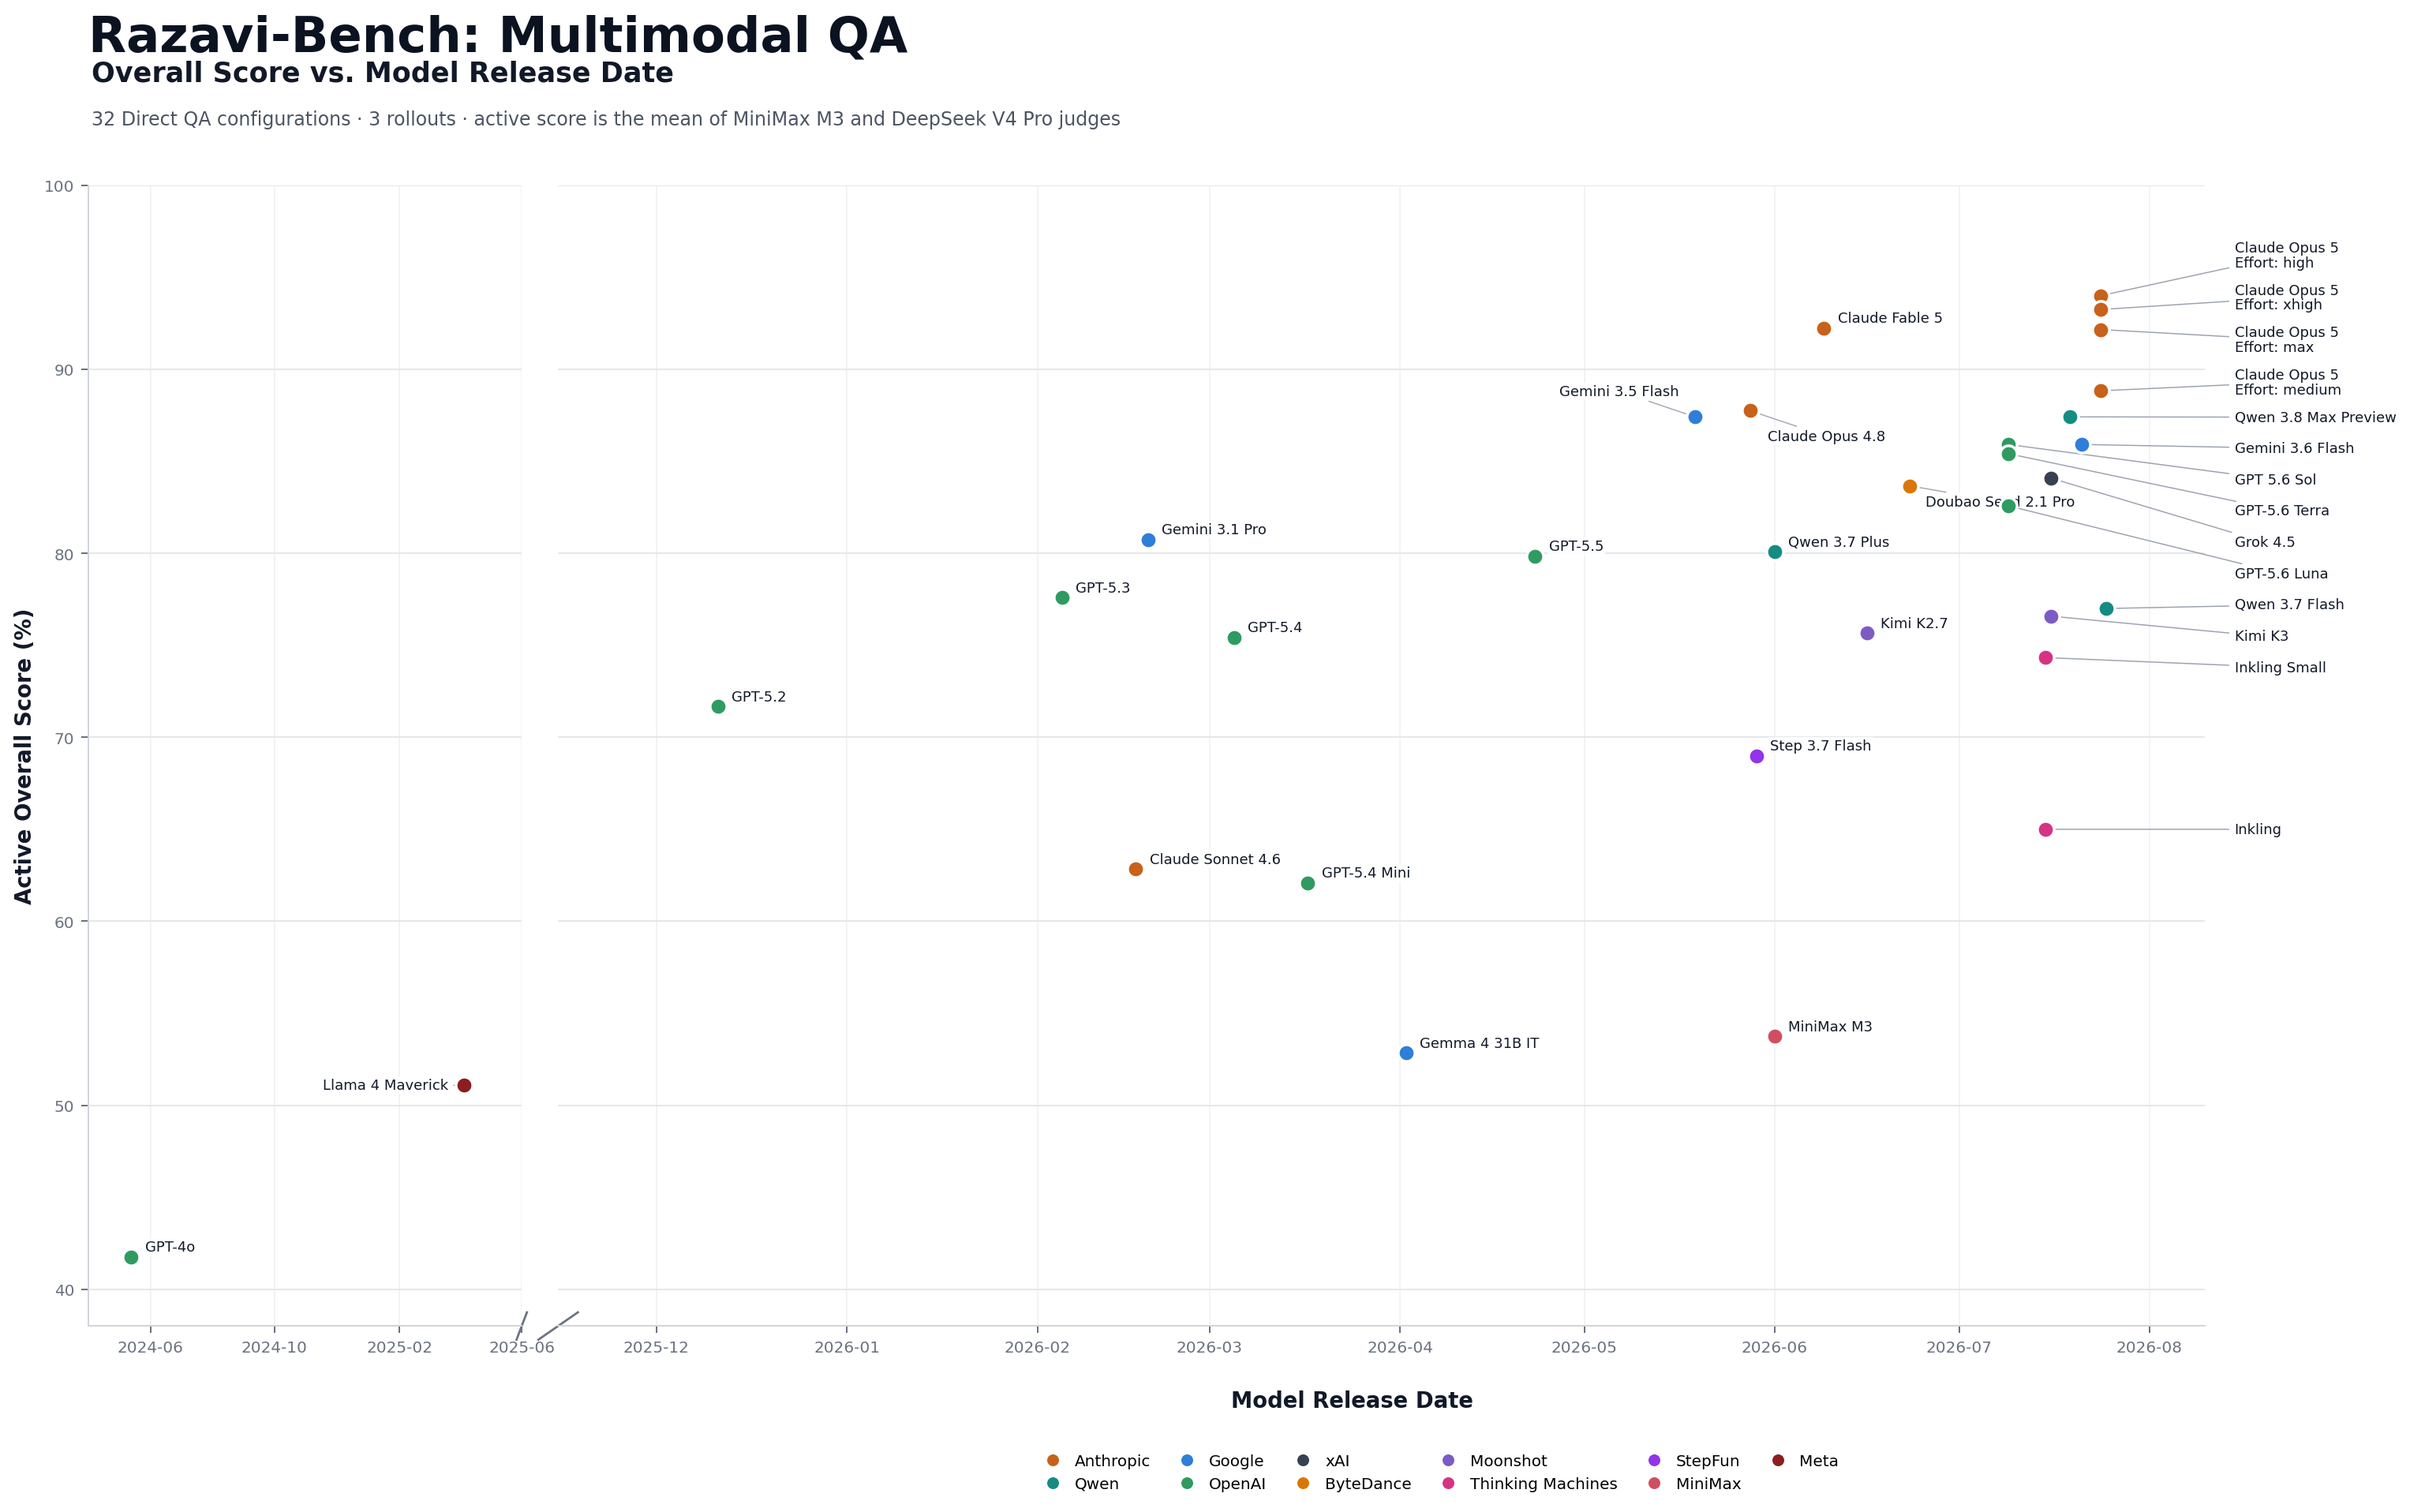
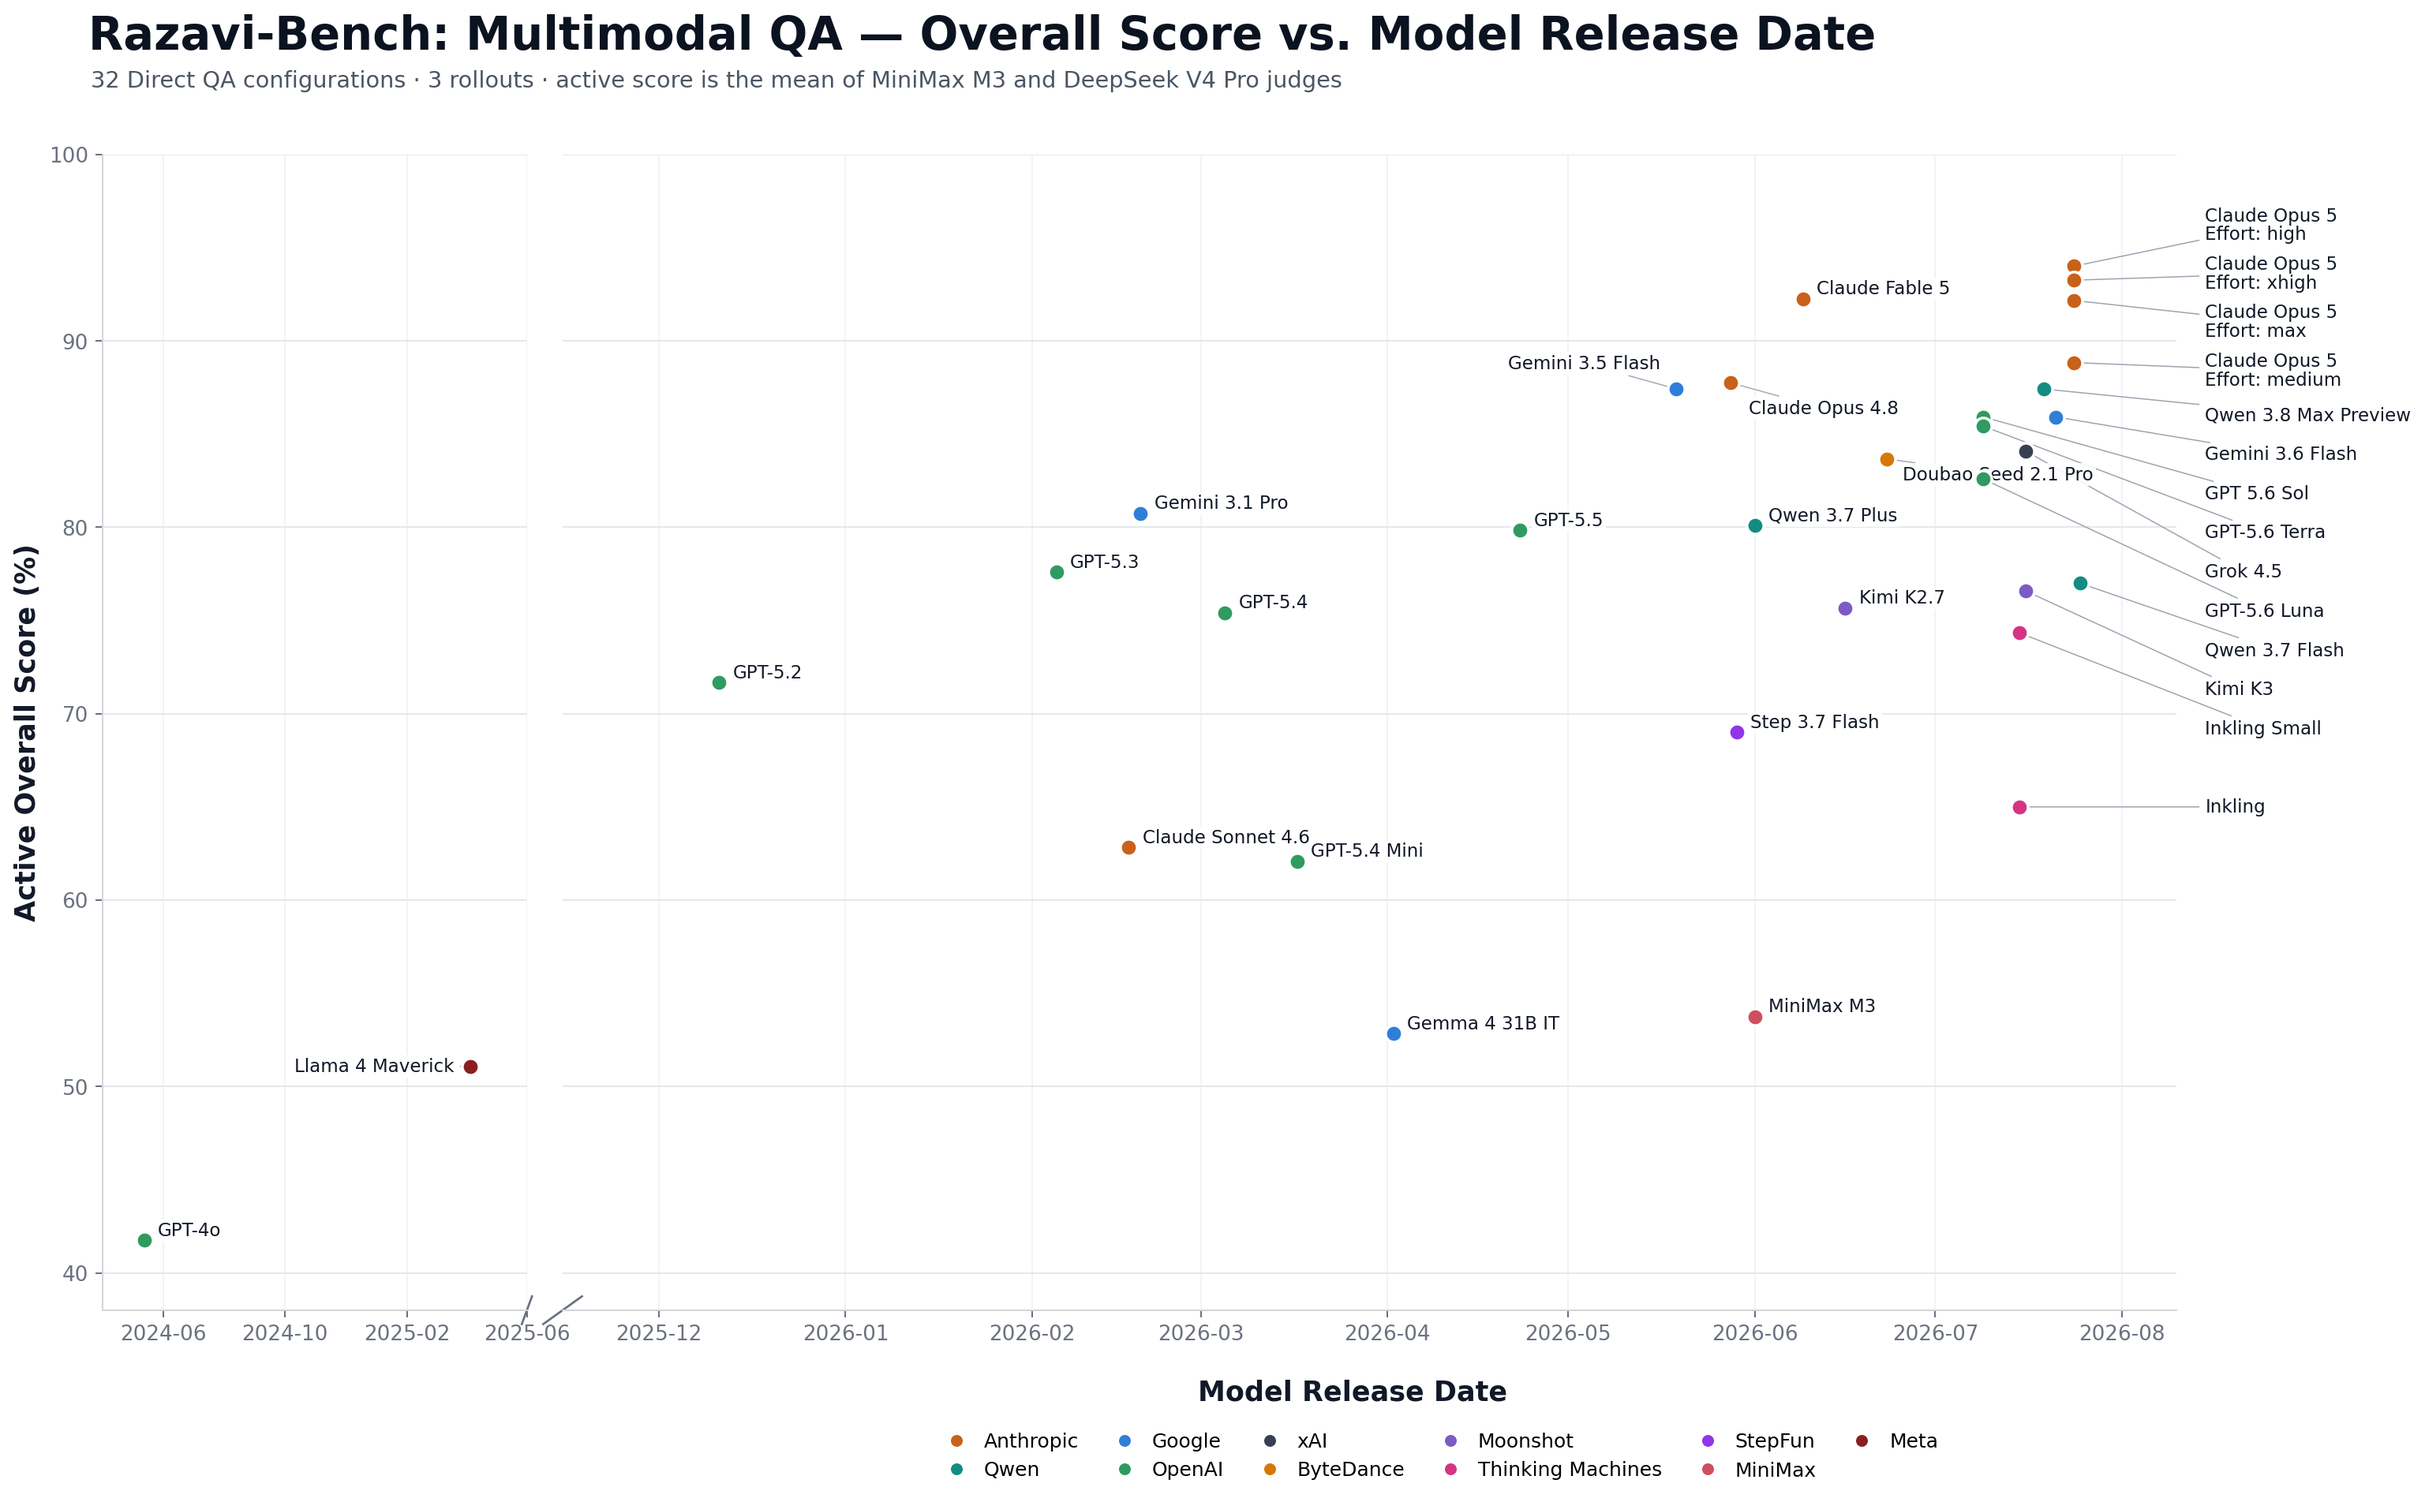
Improve release timeline readability

diff --git a/tools/plot_model_release_timeline.py b/tools/plot_model_release_timeline.py
@@ -42,18 +42,18 @@ LABEL_OFFSETS = {
 
 RECENT_LABEL_Y = {
     "claude_opus_5_high": 96.2,
-    "claude_opus_5_xhigh": 93.9,
-    "claude_opus_5": 91.6,
-    "claude_opus_5_medium": 89.3,
-    "qwen_38": 87.4,
-    "gemini_36_flash": 85.7,
-    "gpt_56": 84.0,
-    "gpt_56_terra": 82.3,
-    "grok_45": 80.6,
-    "gpt_56_luna": 78.9,
-    "qwen_37_flash": 77.2,
-    "kimi_k3": 75.5,
-    "inkling_small": 73.8,
+    "claude_opus_5_xhigh": 93.6,
+    "claude_opus_5": 91.0,
+    "claude_opus_5_medium": 88.4,
+    "qwen_38": 86.0,
+    "gemini_36_flash": 83.9,
+    "gpt_56": 81.8,
+    "gpt_56_terra": 79.7,
+    "grok_45": 77.6,
+    "gpt_56_luna": 75.5,
+    "qwen_37_flash": 73.4,
+    "kimi_k3": 71.3,
+    "inkling_small": 69.2,
     "inkling": 65.0,
 }
 
@@ -118,7 +118,7 @@ def annotate(ax: plt.Axes, row: dict[str, object]) -> None:
             textcoords=ax.get_yaxis_transform(),
             ha="left",
             va="center",
-            fontsize=7.2,
+            fontsize=9.2,
             color="#111827",
             linespacing=1.05,
             arrowprops={"arrowstyle": "-", "color": "#9CA3AF", "lw": 0.6},
@@ -137,7 +137,7 @@ def annotate(ax: plt.Axes, row: dict[str, object]) -> None:
         textcoords="offset points",
         ha=horizontal_alignment,
         va="center",
-        fontsize=7.2,
+        fontsize=9.2,
         color="#111827",
         linespacing=1.05,
         arrowprops={"arrowstyle": "-", "color": "#9CA3AF", "lw": 0.55},
@@ -153,7 +153,7 @@ def style_axis(ax: plt.Axes) -> None:
     ax.set_yticks(range(40, 101, 10))
     ax.grid(axis="y", color="#E5E7EB", linewidth=0.8)
     ax.grid(axis="x", color="#F0F2F5", linewidth=0.7)
-    ax.tick_params(colors="#6B7280", labelsize=8)
+    ax.tick_params(colors="#6B7280", labelsize=10.5)
     ax.spines["top"].set_visible(False)
     ax.spines["right"].set_visible(False)
     ax.spines["left"].set_color("#D1D5DB")
@@ -199,30 +199,22 @@ def plot(rows: list[dict[str, object]], output: Path) -> None:
         )
         annotate(axis, row)
 
-    old_ax.set_ylabel("Active Overall Score (%)", fontsize=11, fontweight="bold", color="#111827")
-    figure.supxlabel("Model Release Date", y=0.075, fontsize=11, fontweight="bold", color="#111827")
+    old_ax.set_ylabel("Active Overall Score (%)", fontsize=14, fontweight="bold", color="#111827")
+    figure.supxlabel("Model Release Date", y=0.074, fontsize=14, fontweight="bold", color="#111827")
     figure.suptitle(
-        "Razavi-Bench: Multimodal QA",
+        "Razavi-Bench: Multimodal QA — Overall Score vs. Model Release Date",
         x=0.055,
-        y=0.97,
+        y=0.965,
         ha="left",
-        fontsize=25,
+        fontsize=23,
         fontweight="bold",
         color="#0B1220",
     )
     figure.text(
         0.056,
-        0.927,
-        "Overall Score vs. Model Release Date",
-        fontsize=14,
-        fontweight="bold",
-        color="#111827",
-    )
-    figure.text(
-        0.056,
-        0.899,
+        0.918,
         "32 Direct QA configurations · 3 rollouts · active score is the mean of MiniMax M3 and DeepSeek V4 Pro judges",
-        fontsize=9.5,
+        fontsize=11.5,
         color="#4B5563",
     )
 
@@ -248,13 +240,13 @@ def plot(rows: list[dict[str, object]], output: Path) -> None:
         bbox_to_anchor=(0.53, 0.015),
         ncol=6,
         frameon=False,
-        fontsize=8,
+        fontsize=10,
         handletextpad=0.4,
         columnspacing=1.3,
     )
 
     output.parent.mkdir(parents=True, exist_ok=True)
-    figure.subplots_adjust(left=0.055, right=0.80, top=0.86, bottom=0.13)
+    figure.subplots_adjust(left=0.06, right=0.79, top=0.875, bottom=0.135)
     figure.savefig(output, bbox_inches="tight", facecolor="white")
     plt.close(figure)
 

diff --git a/README.md b/README.md
@@ -240,5 +240,5 @@ marks preview or first-public-availability dates in the
 [model release-date table](docs/data/direct_qa/model_release_dates.csv).
 
 <p align="center">
-  <img src="docs/assets/direct_qa_score_vs_release_date.png?v=20260802" alt="Razavi-Bench score versus model release date" title="Razavi-Bench score versus model release date" width="96%"/>
+  <img src="docs/assets/direct_qa_score_vs_release_date.png?v=20260802-large-type" alt="Razavi-Bench score versus model release date" title="Razavi-Bench score versus model release date" width="96%"/>
 </p>
